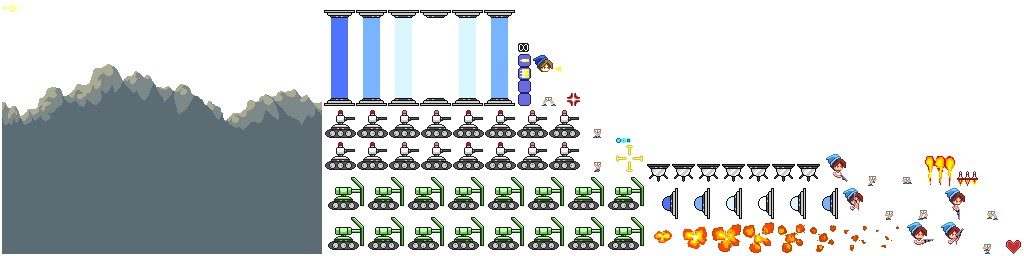
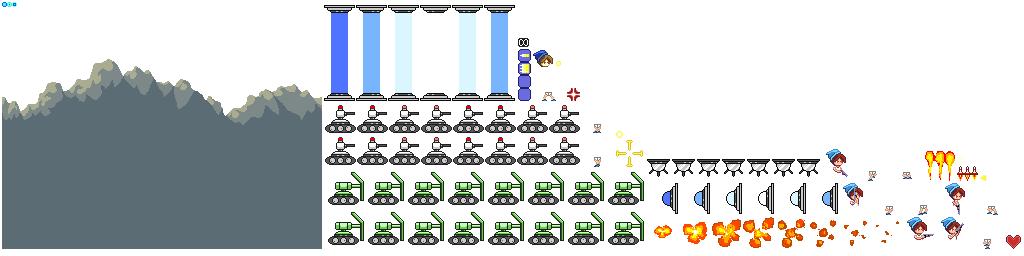
particles

diff --git a/app/screen/test_screen.rb b/app/screen/test_screen.rb
@@ -4,6 +4,7 @@ class TestScreen < Screen
     super
 
     @bullets = []
+    @particles = []
 
     @player = Player.new
     @player.x = WIDTH / 2
@@ -16,17 +17,20 @@ class TestScreen < Screen
 
   private def add_bullet args, mx, my
     dir = @player.hflip ? -1 : 1
-    speed = 300 / 60
+    speed = 500 / 60
     dx = mx - @player.x
     dy = my - @player.y
     deg = (Math.atan2 dy, dx) * 180 / PI
     deg = (deg / 45).round * 45
-    dx = Math.cos(deg * PI / 180)
-    dy = Math.sin(deg * PI / 180)
-    len = Math.sqrt(dx**2 + dy**2)
+    dx = Math.cos deg * PI / 180
+    dy = Math.sin deg * PI / 180
+    len = Math.sqrt dx**2 + dy**2
     dx /= len
     dy /= len
-    @bullets << Bullet.new(args, @player.x + 13 * dx, @player.y + 13 * dy - 1, speed * dx, speed * dy, deg)
+    x = @player.x + 13 * dx
+    y = @player.y + 13 * dy - 1
+    @bullets << (Bullet.new args, x, y, speed * dx, speed * dy, deg)
+    @particles << (Particle.new "gunflash", x + dx, y + dy, 0, 0, 3, 2, true)
   end
 
   def update args
@@ -41,18 +45,20 @@ class TestScreen < Screen
     end
 
     # handle mouse input
-    (mx, my) = @cam.from_screen_space(args.inputs.mouse.x, args.inputs.mouse.y)
+    mx, my = @cam.from_screen_space args.inputs.mouse.x, args.inputs.mouse.y
     if args.inputs.mouse.button_left
       if @player.fire
         add_bullet args, mx, my
       end
     end
 
+    # update particles
+    @particles.each { |p| p.update }
+    @particles.reject! { |p| p.remove }
+
     # update bullets
     @bullets.each { |b| b.update @tiled_map.walls }
-    @bullets.reject! { |b|
-      b.remove 
-    }
+    @bullets.reject! { |b| b.remove }
 
     # cam follow player
     @cam.look_at @player.x, HEIGHT / 2, 0.1
@@ -68,6 +74,7 @@ class TestScreen < Screen
     @tiled_map.render args, @cam
     @player.render args, @cam
     @bullets.each { |b| b.render args, @cam }
+    @particles.each { |p| p.render args, @cam }
 
     # debug text
     args.outputs.labels << { text: "player x, y #{@player.x.round(2)} #{@player.y.round(2)}", x: 20, y: args.grid.h - 10, **WHITE }

diff --git a/app/entity/bullet.rb b/app/entity/bullet.rb
@@ -2,39 +2,41 @@ class Bullet < Entity
 
   attr_accessor :remove
 
-  def initialize args, x, y, dx, dy, deg
+  def initialize args, x = 0, y = 0, dx = 0, dy = 0, deg = 0
     super()
     @x = x
     @y = y
     @dx = dx
     @dy = dy
-    @remove = false
     @render_deg = deg
     @time = 0
+    @cw = @ch = 10
     set_image args, "machinegun"
   end
 
   def update walls
+    walls.each { |w|
+      if w.platform then next end
+      if Utils.overlaps? ({ x: w.x - w.w / 2, y: w.y - w.h / 2, w: w.w, h: w.h}), (crect @x, @y)
+        @remove = true
+      end
+    }
+
     @x += @dx
     @y += @dy
     @time += 1
 
-    if @time > 15
+    if @time > 10
       @remove = true
       return
     end
-
-    walls.each { |w|
-      if w.platform then next end
-      if Utils.overlaps? ({ x: w.x - w.w / 2, y: w.y - w.h / 2, w: w.w, h: w.h}), (crect @x, @y)
-        puts "remove"
-        @remove = true
-      end
-    }
   end
 
   def render args, cam
     cam.render args, self
+    if args.state.debug
+      render_debug args, cam
+    end
   end
 
 end

diff --git a/app/entity/particle.rb b/app/entity/particle.rb
@@ -1,0 +1,36 @@
+class Particle < Entity
+
+  def initialize path, x, y, dx, dy, count = -1, interval = -1, once = false
+    super()
+    @path = path
+    @x = x
+    @y = y
+    @dx = dx
+    @dy = dy
+    @count = count
+    @interval = interval
+    @once = once
+
+    @total = @count * @interval
+    @time = 0
+
+    @animation = Animation.new @count, @interval
+  end
+
+  def update
+    @animation.tick
+    if @animation.play_count > 0 && @once
+      @remove = true
+    end
+  end
+
+  def render args, cam
+    if @count > 0
+      set_image args, "#{@path}#{@animation.index + 1}"
+    else
+      set_image args, @path
+    end
+    cam.render_image args, @image, @x, @y, @w, @h
+  end
+
+end

diff --git a/app/entity/entity.rb b/app/entity/entity.rb
@@ -9,13 +9,14 @@ class Entity
   attr_reader :cw, :ch
 
   # render
-  attr_reader :a, :render_deg, :image, :hide, :hflip
+  attr_reader :remove, :a, :render_deg, :image, :hide, :hflip
 	
 	def initialize
     @x = @y = @dx = @dy = 0
     @a = 255
     @cw = @ch = 0
     @render_deg = 0
+    @remove = false
 	end
 
   def set_image args, region
@@ -26,6 +27,10 @@ class Entity
 
   def crect x, y
     return { x: x - @cw / 2, y: y - @ch / 2, w: @cw, h: @ch }
+  end
+
+  def render_debug args, cam
+    cam.render_box args, @x, @y, @cw, @ch, 255, 0, 0, 80
   end
 
 end

diff --git a/app/util/animation.rb b/app/util/animation.rb
@@ -1,0 +1,25 @@
+class Animation
+
+  attr_reader :play_count, :index
+
+  def initialize count, interval
+    @count = count
+    @interval = interval
+    @index = 0
+    @ticks = 0
+    @play_count = 0
+  end
+
+  def tick
+    @ticks += 1
+    if @ticks >= @interval
+      @ticks -= @interval
+      @index += 1
+      if @index >= @count
+        @index = 0
+        @play_count += 1
+      end
+    end
+  end
+
+end

diff --git a/app/entity/player.rb b/app/entity/player.rb
@@ -6,7 +6,7 @@ class Player < Entity
   GRAVITY = 300 / 60 / 60
 	MAX_SPEED = 70 / 60
   MAX_FALL_SPEED = 200 / 60
-  JUMP = 160 / 60
+  JUMP = 150 / 60
 
   # input
   attr_accessor :left, :right
@@ -126,7 +126,7 @@ class Player < Entity
 
     # render collision box
     if args.state.debug
-      cam.render_box args, @x, @y, @cw, @ch, 255, 0, 0, 80
+      render_debug args, cam
     end
   end
 

diff --git a/app/main.rb b/app/main.rb
@@ -5,9 +5,11 @@ require 'app/screen/screen'
 require 'app/screen/test_screen'
 require 'app/util/utils'
 require 'app/util/texture_atlas_manager'
+require 'app/util/animation'
 require 'app/entity/entity'
 require 'app/entity/player'
 require 'app/entity/bullet'
+require 'app/entity/particle'
 require 'app/tiled/tiled_map'
 
 def setup_game args

diff --git a/app/camera.rb b/app/camera.rb
@@ -65,7 +65,7 @@ class Camera
       y: sy - sh / 2,
       w: sw,
       h: sh,
-      path: image
+      **image
     }
   end
 

diff --git a/app/constants.rb b/app/constants.rb
@@ -6,4 +6,3 @@ HEIGHT = 180
 WHITE = { r: 255, g: 255, b: 255 }
 
 PI = Math::PI
-SQRT2 = 1.4142
